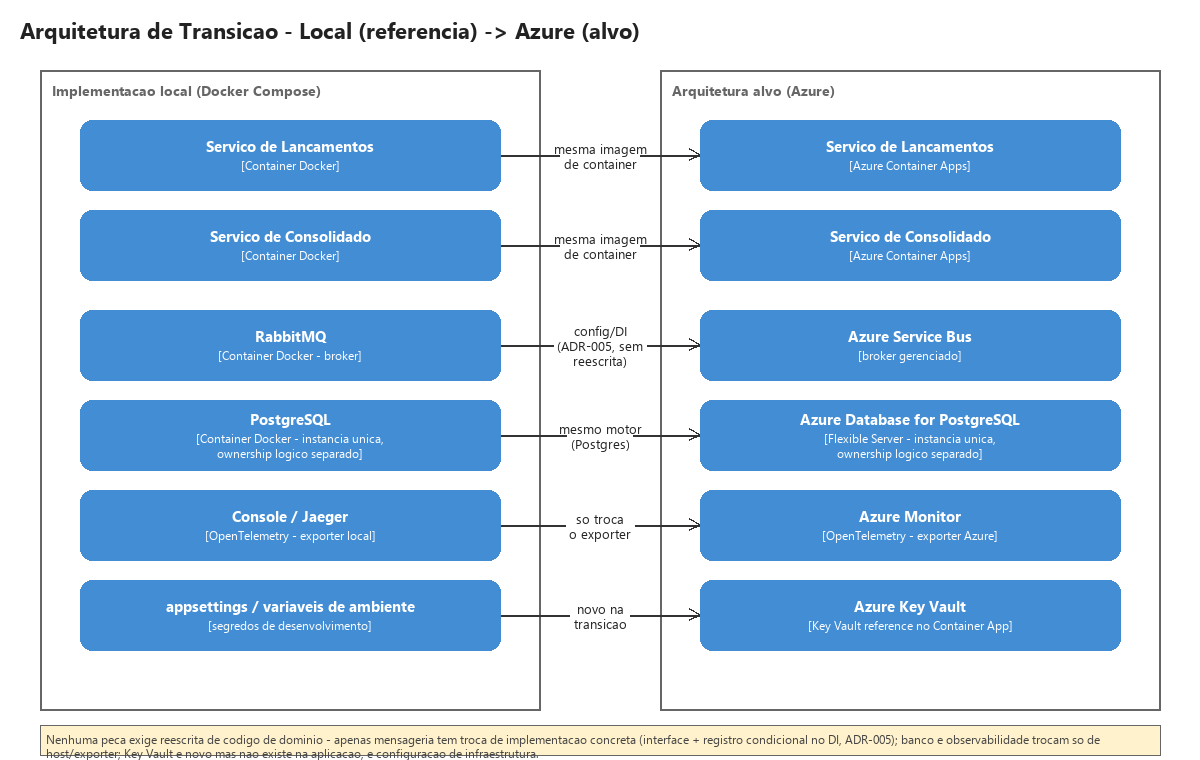
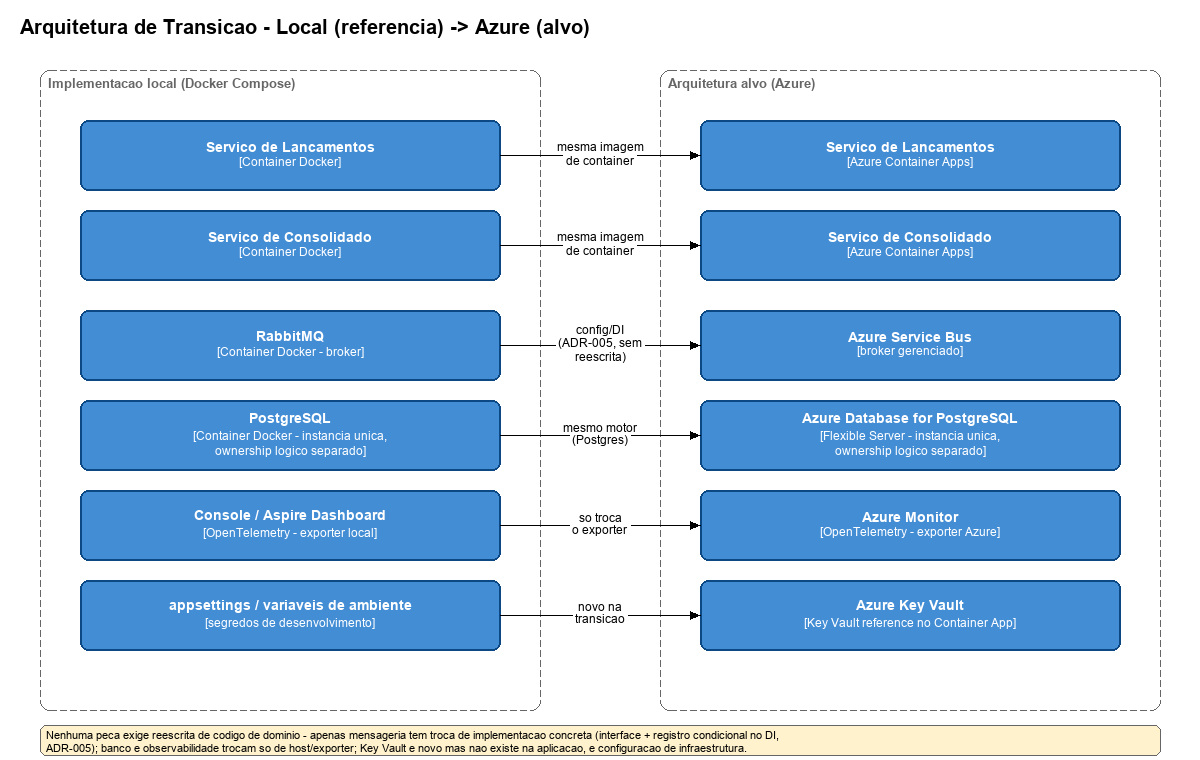
docs: revisão final de documentação (issue #23) (#59)
* docs: revisao final de documentacao (issue #23)

Corrige 3 desalinhamentos encontrados na auditoria da issue #23:
- ADR-004 ainda citava "Factory" em vez de "registro condicional no
  DI" (terminologia revisada na ADR-005 em 07/09, nao propagada).
- Linha de auth em transition-architecture.md desatualizada - #17
  ja foi fechada via documentacao (docs/integration-security.md),
  nao mais um diferencial em aberto.
- Linha da topologia de 2 nos referenciava "ADR-003 (extensao)" sem
  esse conteudo existir na ADR-003 - ajustada para apontar para
  docs/cost-estimate.md, sem criar ADR nova (decisao de Felipe).
- Diagrama de transicao (xml + png) ainda rotulava "Console / Jaeger",
  desatualizado desde a troca para Aspire Dashboard na issue #21.

* chore: log de prompts (issue #23)

diff --git a/docs/transition-architecture.md b/docs/transition-architecture.md
@@ -12,9 +12,9 @@
 | Sem cache / réplica de leitura / particionamento no Consolidado | O SLA de 50 req/s é atendido por PostgreSQL simples com índice em `Data`, dada a baixa cardinalidade do consolidado diário — adicionar essas estratégias sem evidência seria complexidade prematura | Teste de carga (issue #20) mostrando que o índice simples não sustenta o SLA na prática | Risco de precisar adicionar uma camada de infraestrutura nova sob pressão, já em produção, em vez de planejada com calma | ADR-003, issue #20 |
 | Redundância / failover de infraestrutura (PostgreSQL HA, cluster RabbitMQ) | Instância única de cada é suficiente para demonstrar a arquitetura dentro do escopo do desafio; alta disponibilidade de infraestrutura é um problema ortogonal ao que o desafio pede para resolver | Deploy real em produção com SLA de uptime formal, fora do contexto de desafio técnico | Postgres e RabbitMQ são pontos únicos de falha (SPOF) nesta fase — uma queda da instância derruba ambos os serviços, apesar de eles serem desacoplados entre si | ADR-003 (a formalizar) |
 | RabbitMQ local (Docker Compose) → Azure Service Bus gerenciado | Implementação de referência 100% local, sem custo e sem dependência de conta Azure para rodar/avaliar o desafio | Deploy real no Azure (arquitetura-alvo já documentada) | Nenhum — a troca já é suportada por design (interfaces + registro condicional no DI, ADR-005/NFR06), é só configuração | ADR-004, ADR-005 |
-| Autenticação/autorização no consumo dos serviços (Lançamentos e Consolidado, Lançamentos priorizado por ser o caminho de escrita) | Fora do compromisso obrigatório do desafio — item explicitamente listado como diferencial | Admissão incremental do diferencial, conforme ritmo real comprovar que cabe no orçamento de 24h (ver `poAgent.md`) | Os dois serviços hoje são publicamente acessíveis sem controle de acesso — `POST /lancamentos` inclusive | Issue #17 (diferencial) |
+| Autenticação/autorização no consumo dos serviços (Lançamentos e Consolidado, Lançamentos priorizado por ser o caminho de escrita) | Custo de implementar subiu depois que `tests/EndToEnd.Tests` passou a bater direto nos endpoints HTTP (issues #19/#20) — retrofit não se justificou como diferencial neste estágio do orçamento; o texto do desafio pede "critérios de segurança", não implementação | Decisão fechada: critério e mecanismo sugerido (middleware + API key) documentados sem código em `docs/integration-security.md`, ao invés de admitir a implementação | Os dois serviços hoje são publicamente acessíveis sem controle de acesso — `POST /lancamentos` inclusive | `docs/integration-security.md` (issues #17/#27, fechadas) |
 | Observabilidade além do console/Aspire Dashboard local (dashboards, alertas proativos) | OpenTelemetry já adotado desde o início (vendor-neutral) garante que os dados existem; a parte de "vitrine" (dashboards, alertas) é diferencial | Admissão incremental do diferencial, mesmo critério acima | Hoje é possível rastrear localmente, mas não há alerta proativo de degradação | NFR05, issue #21 (diferencial) |
-| 2 nós assimétricos (Nível 1 do `docs/cost-estimate.md`) → arquitetura-alvo com compute isolado por serviço (Nível 2, Azure Container Apps) | Fecha NFR01 também na infraestrutura por um custo marginal (+25% sobre uma VPS única, ≈R$ 25,60/mês): Consolidado isolado em nó próprio (Nó B), sem levar Postgres/RabbitMQ/Lançamentos (Nó A) junto numa queda de host | Deploy real em produção com SLA de uptime contratual para o Lançamentos, ou medição real mostrando contenção de CPU/I/O no Nó A sob carga simultânea de Lançamentos e sua própria infra de banco/broker | O Nó A (Postgres + RabbitMQ + Lançamentos) continua sendo SPOF — uma queda dele derruba banco, broker e o próprio Lançamentos juntos. É o mesmo risco de recurso compartilhado já aceito na linha acima (ADR-003), só que agora isolado do Consolidado: o NFR01 (Lançamentos sobreviver à queda do Consolidado) já está coberto também na infraestrutura, não só no desenho lógico | ADR-003 (extensão), issue #25 |
+| 2 nós assimétricos (Nível 1 do `docs/cost-estimate.md`) → arquitetura-alvo com compute isolado por serviço (Nível 2, Azure Container Apps) | Fecha NFR01 também na infraestrutura por um custo marginal (+25% sobre uma VPS única, ≈R$ 25,60/mês): Consolidado isolado em nó próprio (Nó B), sem levar Postgres/RabbitMQ/Lançamentos (Nó A) junto numa queda de host | Deploy real em produção com SLA de uptime contratual para o Lançamentos, ou medição real mostrando contenção de CPU/I/O no Nó A sob carga simultânea de Lançamentos e sua própria infra de banco/broker | O Nó A (Postgres + RabbitMQ + Lançamentos) continua sendo SPOF — uma queda dele derruba banco, broker e o próprio Lançamentos juntos. É o mesmo risco de recurso compartilhado que a ADR-003 já aceita para o banco (linha acima), agora estendido também ao compute do Lançamentos e ao broker — decisão registrada em `docs/cost-estimate.md`/`docs/transition-architecture.md`, sem ADR formal própria: o NFR01 (Lançamentos sobreviver à queda do Consolidado) já está coberto também na infraestrutura, não só no desenho lógico | `docs/cost-estimate.md`, issue #25 |
 
 ## Fora do roadmap por não ter base em requisito
 

diff --git a/docs/adr/ADR-004-messaging-technology-choice.md b/docs/adr/ADR-004-messaging-technology-choice.md
@@ -10,7 +10,7 @@ O volume de carga real conhecido é o de NFR02: 50 requisições por segundo em 
 
 ## Decisão
 
-**RabbitMQ** na implementação de referência local (via Docker Compose, junto de PostgreSQL — ADR-003), e **Azure Service Bus** na arquitetura-alvo em produção. A troca entre as duas implementações é resolvida pela mesma abstração de interface + Factory descrita na ADR-005 — o código de domínio depende apenas da interface de publicação/consumo de evento, nunca do SDK concreto do broker.
+**RabbitMQ** na implementação de referência local (via Docker Compose, junto de PostgreSQL — ADR-003), e **Azure Service Bus** na arquitetura-alvo em produção. A troca entre as duas implementações é resolvida pela mesma abstração de interface + registro condicional no DI descrita na ADR-005 — o código de domínio depende apenas da interface de publicação/consumo de evento, nunca do SDK concreto do broker.
 
 RabbitMQ foi escolhido para a implementação local por ser simples de self-host via Docker Compose, uma ferramenta amplamente compreendida no mercado, e por suportar nativamente o padrão pub/sub (exchange/queue) necessário para a relação um-produtor/um-consumidor entre Lançamentos e Consolidado — suficiente para o volume de NFR02 com folga.
 
@@ -23,6 +23,6 @@ RabbitMQ foi escolhido para a implementação local por ser simples de self-host
 
 ## Consequências
 
-- A troca de RabbitMQ (local) para Azure Service Bus (produção) é uma troca de configuração/Factory (ADR-005), não uma reescrita de lógica de domínio ou dos handlers de publicação/consumo de evento.
+- A troca de RabbitMQ (local) para Azure Service Bus (produção) é uma troca de configuração/registro no DI (ADR-005), não uma reescrita de lógica de domínio ou dos handlers de publicação/consumo de evento.
 - O Docker Compose da implementação de referência inclui um container RabbitMQ, ao lado do PostgreSQL (ADR-003).
 - Se, no futuro, o volume real de eventos crescer ordens de grandeza além do previsto em NFR02 (por exemplo, múltiplos consumidores independentes do mesmo evento, necessidade de replay de longo prazo), a adequação de RabbitMQ/Azure Service Bus deve ser reavaliada nessa ocasião, como mudança de escopo real — não antecipada aqui.

diff --git a/used-prompts/log.md b/used-prompts/log.md
@@ -811,3 +811,27 @@ com relação à issue 17, o que auxarchitect sugere?
 ### 2026-09-08 — 115
 
 pode subir o PR
+
+---
+
+### 2026-09-08 — 116
+
+acabei revisando e aceitando direto no github
+
+---
+
+### 2026-09-08 — 117
+
+vamos revisar a issue 23
+
+---
+
+### 2026-09-08 — 118
+
+corrija os 3, não precisa criar novos ADR2, é só uma revisão geral dos documentos e decisões que eventualmente modificamos pra findar o exercício
+
+---
+
+### 2026-09-08 — 119
+
+pode subir o PR
